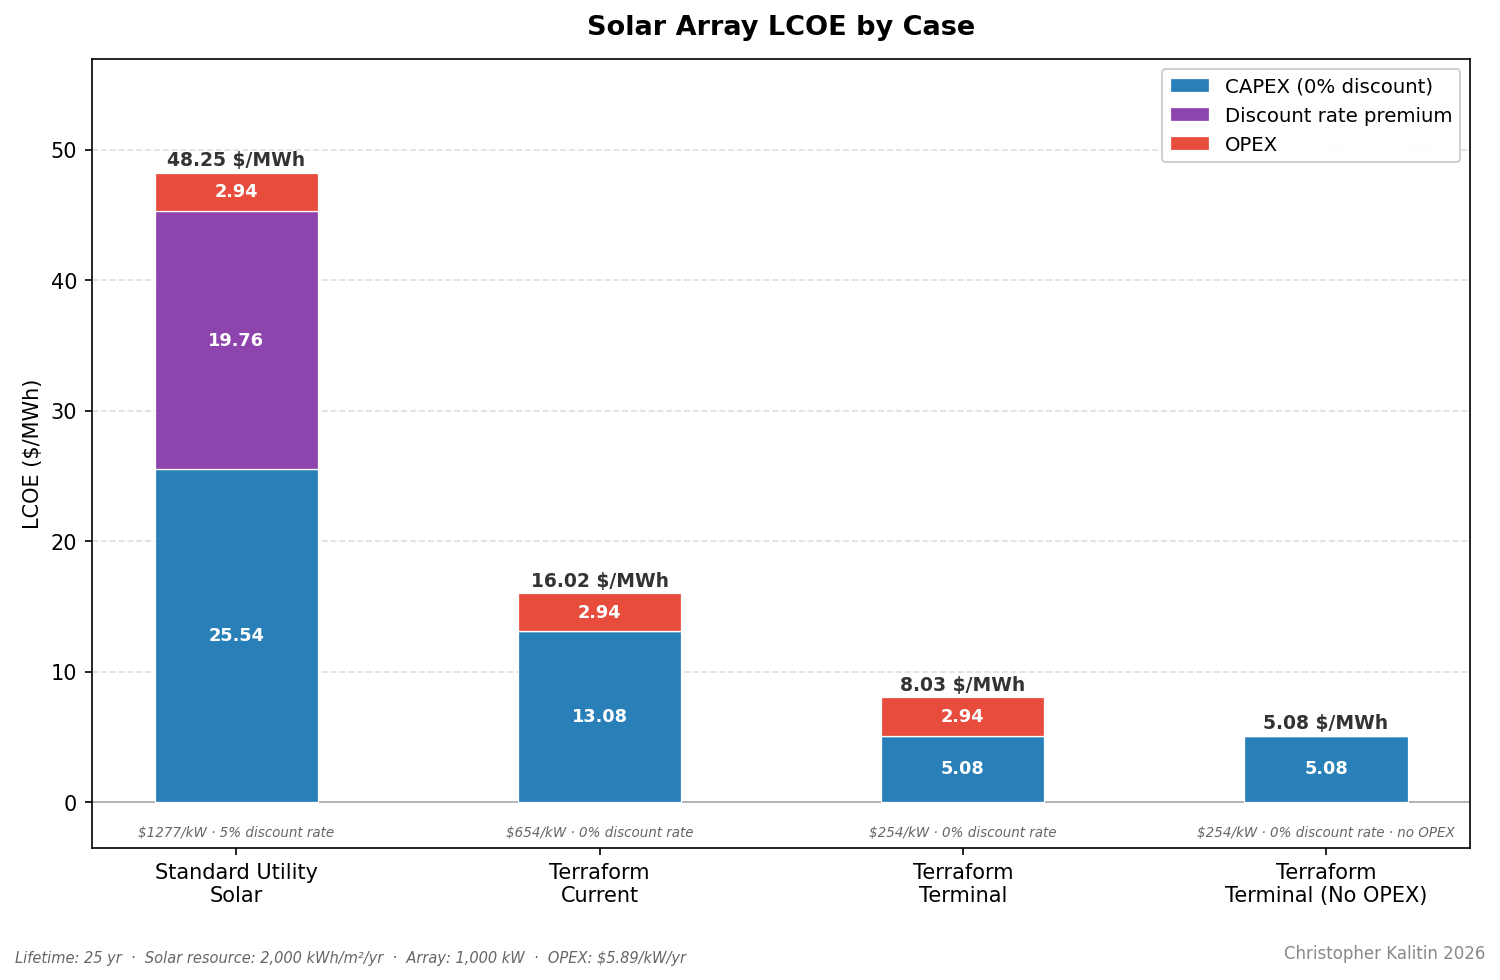
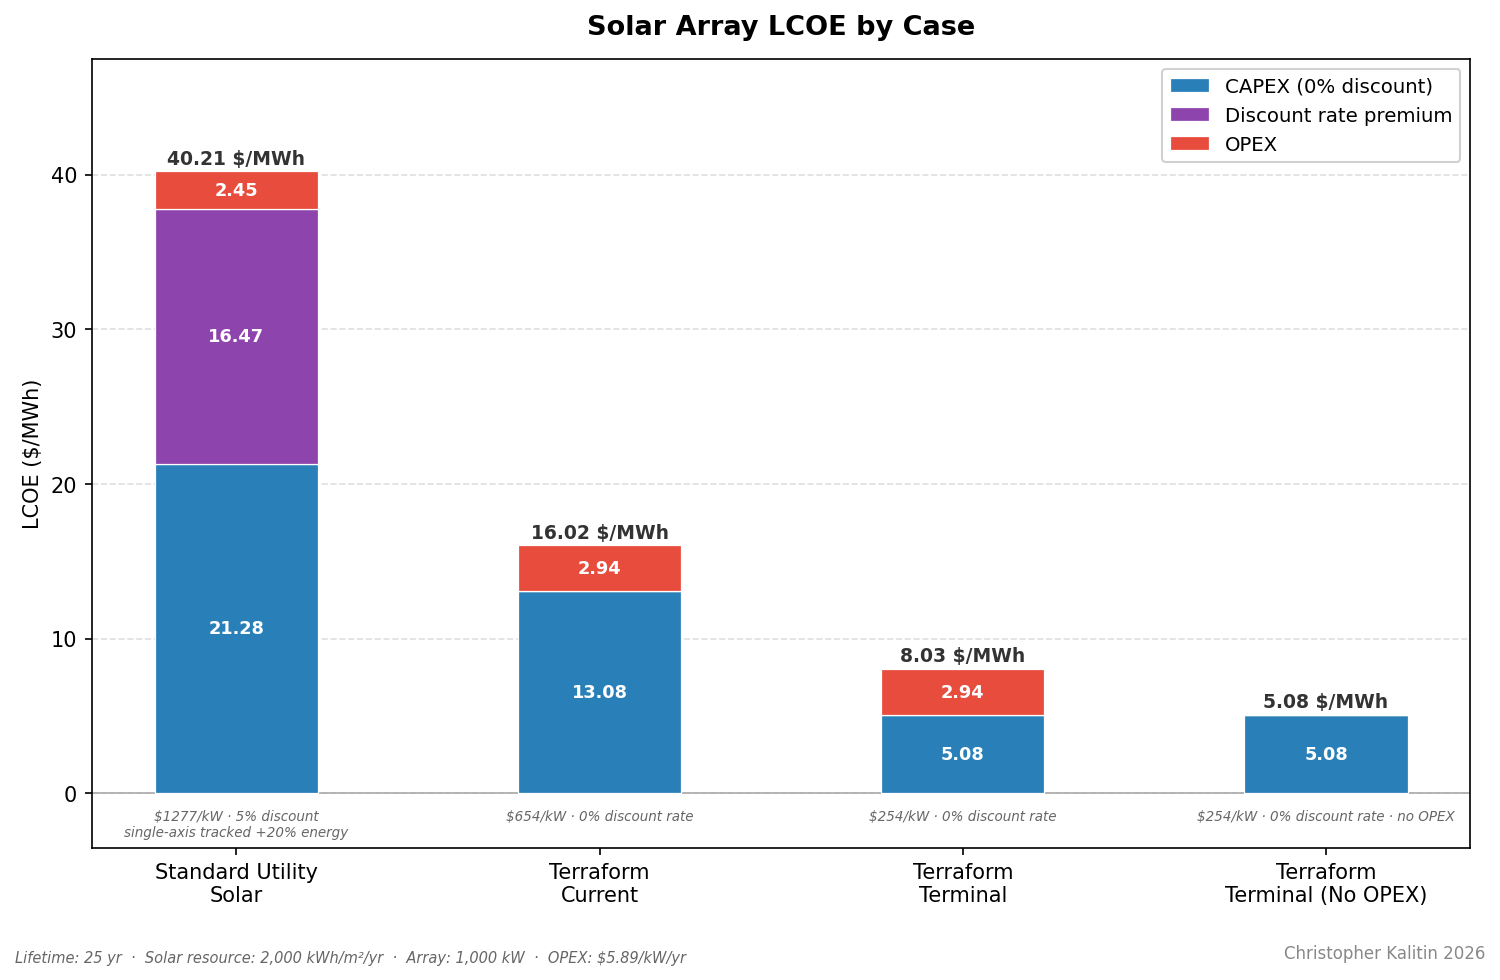
+20% enery trakced

diff --git a/Terraformer-Economics/solar/solar_lcoe.py b/Terraformer-Economics/solar/solar_lcoe.py
@@ -27,14 +27,17 @@ def crf(discount_rate):
     return 1 / YEARS if discount_rate == 0 else \
            discount_rate / (1 - (1 + discount_rate) ** -YEARS)
 
-def lcoe_parts(array_cost_kw, discount_rate=0.0, opex=True):
+UTILITY_TRACKER_BONUS = 1.20   # single-axis tracking yields +20% energy
+
+def lcoe_parts(array_cost_kw, discount_rate=0.0, opex=True, energy_multiplier=1.0):
     """Return (base_capex, discount_premium, opex) in $/MWh.
     base_capex       = CAPEX at 0% discount
     discount_premium = extra cost from applying the real discount rate
+    energy_multiplier scales annual energy (e.g. 1.2 for tracked arrays)
     """
-    scale        = ARRAY_SIZE_KW / annual_energy * 1e3
-    base_capex   = array_cost_kw * crf(0.0)           * scale
-    total_capex  = array_cost_kw * crf(discount_rate) * scale
+    scale         = ARRAY_SIZE_KW / (annual_energy * energy_multiplier) * 1e3
+    base_capex    = array_cost_kw * crf(0.0)           * scale
+    total_capex   = array_cost_kw * crf(discount_rate) * scale
     discount_prem = total_capex - base_capex
     opex_         = OPEX_PER_KW * scale if opex else 0.0
     return base_capex, discount_prem, opex_
@@ -42,8 +45,9 @@ def lcoe_parts(array_cost_kw, discount_rate=0.0, opex=True):
 # ─── Cases: (label, base_capex, discount_premium, opex, note) ────────────────
 cases = [
     ('Standard Utility\nSolar',
-     *lcoe_parts(ARRAY_COST_UTILITY, DISCOUNT_UTILITY, opex=True),
-     f'${ARRAY_COST_UTILITY}/kW · {DISCOUNT_UTILITY:.0%} discount rate'),
+     *lcoe_parts(ARRAY_COST_UTILITY, DISCOUNT_UTILITY, opex=True,
+                 energy_multiplier=UTILITY_TRACKER_BONUS),
+     f'${ARRAY_COST_UTILITY}/kW · {DISCOUNT_UTILITY:.0%} discount\nsingle-axis tracked +20% energy'),
 
     ('Terraform\nCurrent',
      *lcoe_parts(ARRAY_COST_CURRENT, 0.0, opex=True),
@@ -111,7 +115,7 @@ def draw_lcoe_chart(cases, title, filename, figsize=(10, 6.5)):
     for i, (total, note) in enumerate(zip(totals, notes)):
         ax.text(i, total + 0.22, f'{total:.2f} $/MWh',
                 ha='center', va='bottom', fontsize=9, fontweight='bold', color='#333333')
-        ax.text(i, -1.8, note, ha='center', va='top', fontsize=6.5,
+        ax.text(i, -1, note, ha='center', va='top', fontsize=6.5,
                 color='#666666', style='italic')
 
     ax.set_xticks(list(xs))
